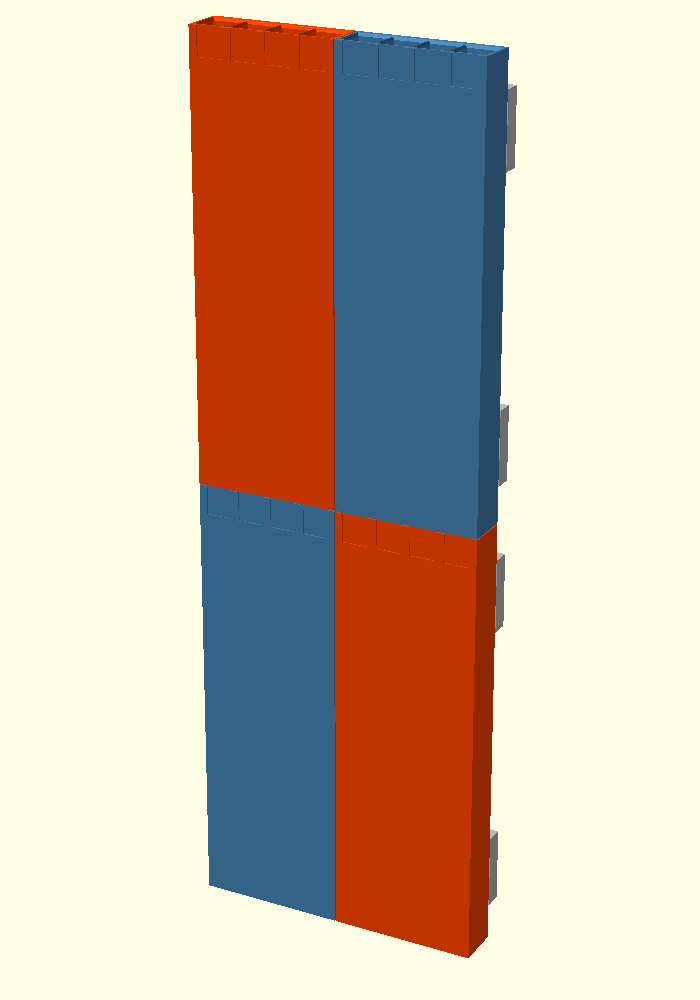
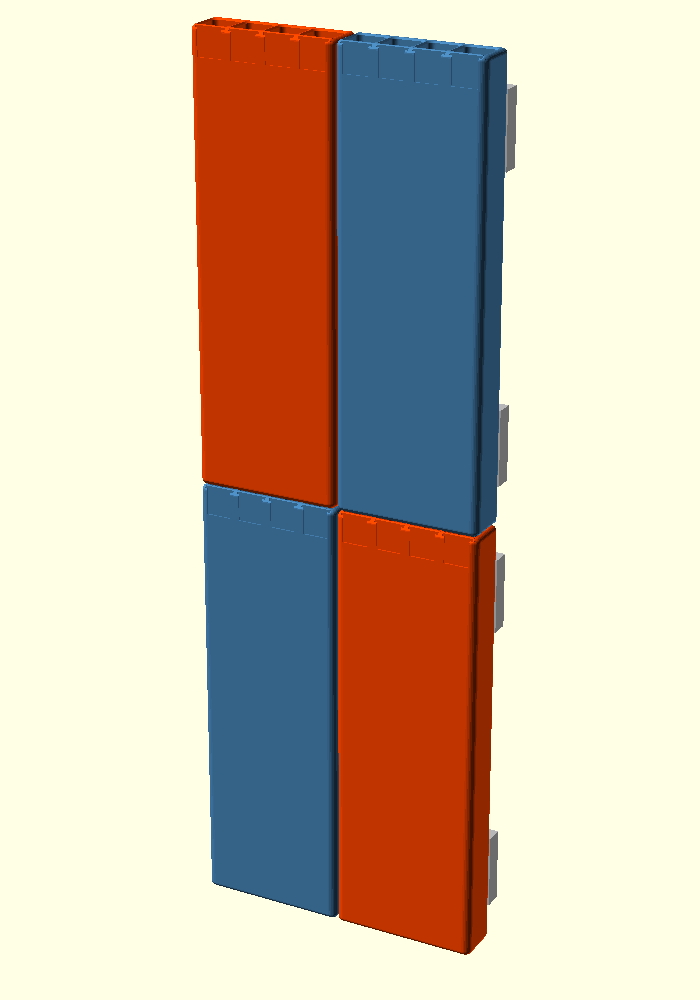
feat: round the outer edges and the compartment insides
Adds a rounded_extrude helper that lofts a 2D profile through a quarter
circle of inset values, used for both the outside of the pot and the
compartment voids, where an inset void leaves a concave fillet in the
solid.

Outside: the front vertical edges, and the top and bottom edges, are
rounded. Inside: the compartment corners are rounded and the walls meet
the floor on a fillet.

Two edges could not simply be rounded.

The back edges are limited by the snaps. The snaps reach 26.4 mm from the
centre against a 27.8 mm half width, so any radius over 1.4 mm undercuts
their roots. back_round defaults to 1.2 and an assert enforces the limit.

The front face perimeter is the bed when printing, and a fillet tangent
to the bed leaves the first layers as a near horizontal overhang. The
rounding is cut back to 45 degrees there by intersecting with a relief
solid, which catches the side, top and bottom edges in one operation.

Also clamps the mouth lead-in. It grows every compartment sideways, so
two neighbours ate into the 1.6 mm divider between them from both sides
at 1 mm each and left a knife edge. Divider tops now measure 0.43 mm at
the very top and 1.55 mm 0.6 mm down.

Verified: single manifold shell, mountfit_check still 0 mm3, and the back
face measures solid across the full snap footprint at 261.888 mm3 against
an expected 261.9.

Claude-Session: https://claude.ai/code/session_01Gnyny71Ld8DXRZfFjH2R5h

diff --git a/README.md b/README.md
@@ -7,7 +7,7 @@ hinge pin stock, but every dimension is parametric.
 ![Rod holder](images/rod_holder.png)
 
 - 2 grid cells wide, 6 cells tall: 55.6 x 167.6 x 16.7 mm
-- 4 compartments, 11.7 mm square, 165.6 mm deep
+- 4 compartments, 11.7 mm square, 165.6 mm deep, rounded inside
 - Card label pocket above each compartment
 - Mounts on 4 snaps: two at the top, two at the bottom
 - Tiles in both directions, so a wall of them lines up
@@ -75,6 +75,38 @@ Change `bore_depth` and they move to suit.
 
 ---
 
+## Rounding
+
+![Detail](images/rod_holder_detail.png)
+
+*Rounded outer edges, rounded compartment corners, and the lead-in at each mouth.*
+
+Outside, the two front vertical edges are rounded by `outer_round`, the top and
+bottom edges by `end_round`. Inside, the compartment corners are rounded by
+`inner_round` and there is a fillet where the walls meet the floor.
+
+Two edges cannot simply be rounded, for reasons worth knowing before you change
+the values:
+
+**The back edges.** Rounding the back face perimeter eats into the flat area the
+snaps root into. The snaps reach 26.4 mm from the centre and the pot half-width
+is 27.8 mm, so anything above 1.4 mm would undercut them. `back_round` defaults
+to 1.2 and is checked by an assert.
+
+**The front face perimeter.** The front face is the bed when printing. A fillet
+tangent to the bed leaves the first layers as a near-horizontal overhang, which
+prints badly. So the rounding is cut back to 45 degrees where it runs into that
+face, by `front_chamfer`. This catches the side edges and the top and bottom
+edges in one operation. Set `front_chamfer = 0` for an unbroken round, and print
+with support.
+
+The mouth lead-in grows every compartment sideways, so two neighbours eat into
+the divider between them from both sides. It is clamped to leave at least 0.4 mm
+on top of each divider, which means the effective lead-in can be smaller than
+`mouth_chamfer` asks for.
+
+---
+
 ## Card labels
 
 Each compartment gets a pocket in the front wall that holds a slip of card
@@ -112,7 +144,7 @@ Set `label_mode = "engraved"` to cut fixed text into the front face instead, or
 | `back_plate` | `3.0` | Back plate thickness, this is what the snaps hang off |
 | `floor_thickness` | `2.0` | Material under the compartments |
 | `compartment_depth` | `0` | Front to back size. `0` makes the compartments square |
-| `mouth_chamfer` | `1.0` | Lead-in at the mouth. Opens sideways and backwards only, so the front wall stays thick enough for the card pocket |
+| `mouth_chamfer` | `1.0` | Lead-in at the mouth. Opens sideways and backwards only, so the front wall stays thick enough for the card pocket. Clamped so it cannot eat the divider tops away |
 
 Compartment width is whatever is left over:
 
@@ -122,6 +154,17 @@ comp_w = (grid_cols * 28 - tile_clearance - 2 * wall
 ```
 
 which gives 11.7 mm at the defaults.
+
+### Rounding
+
+| Parameter | Default | Description |
+|---|---|---|
+| `outer_round` | `3.0` | Radius on the two front vertical edges, the ones you grip |
+| `back_round` | `1.2` | Radius on the two back vertical edges. Capped by the snap footprint, see above |
+| `end_round` | `2.0` | Radius on the top and bottom outer edges |
+| `front_chamfer` | `1.6` | 45 degree relief where the rounding meets the front face, so it prints off the bed. `0` gives an unbroken round |
+| `inner_round` | `2.0` | Radius on the inside vertical corners of each compartment |
+| `floor_round` | `2.0` | Radius where the compartment walls meet the floor |
 
 ### Labels
 
@@ -167,7 +210,7 @@ Following the [openGrid printing guide](https://www.opengrid.world/guides/printi
 - 15% infill or more
 - Do not use a draft or fast profile, it will ruin the snap tolerances
 
-Bed needs to fit 167.6 x 55.6 mm. About 79 cm3 of material at the defaults.
+Bed needs to fit 167.6 x 55.6 mm. About 81 cm3 of material at the defaults.
 
 **Print one snap first.** Run the library's tile and snap examples and check the
 fit by hand before committing to a 168 mm part.
